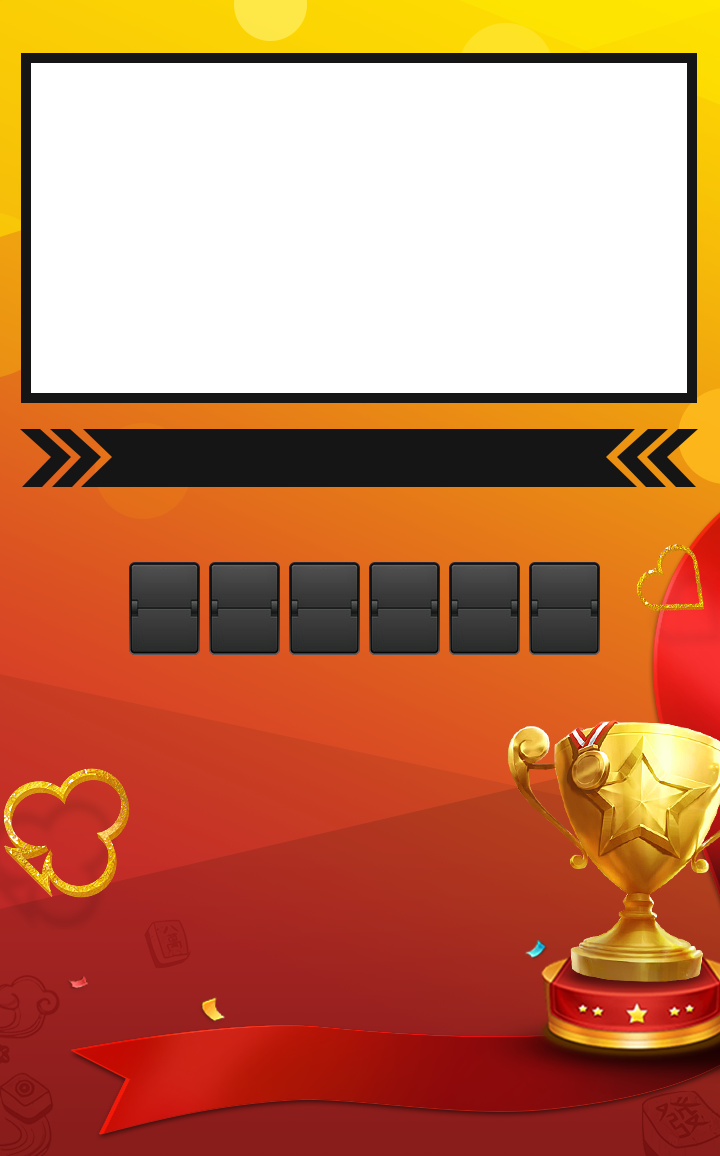
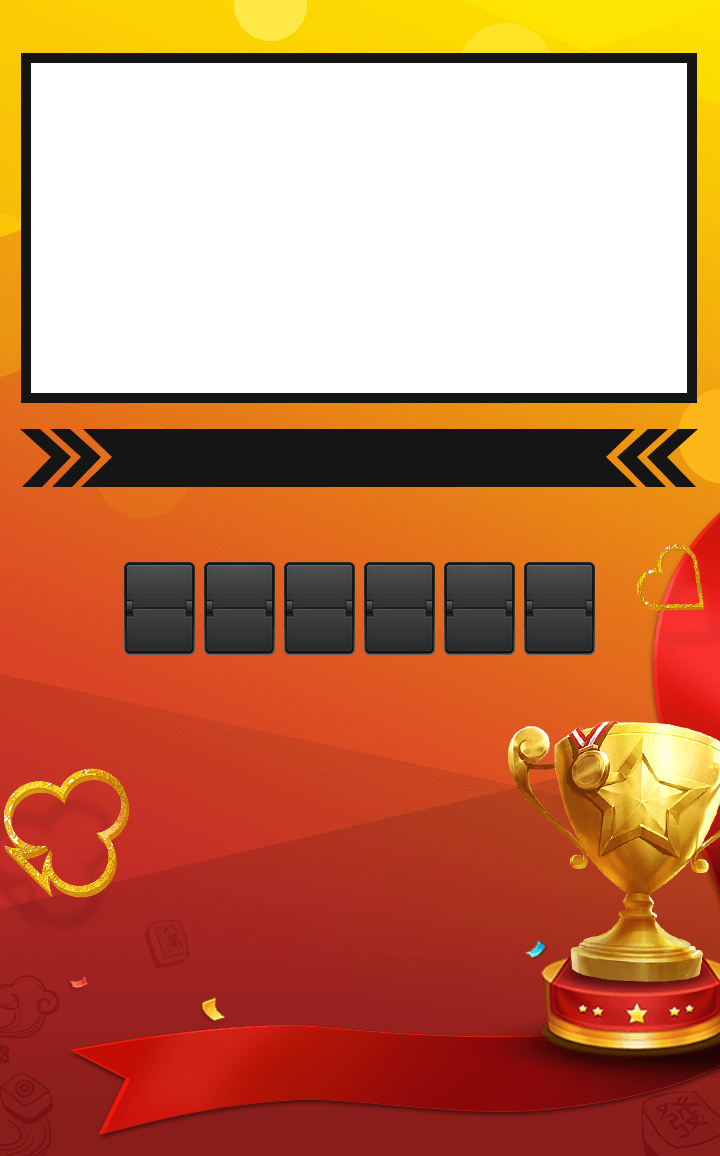
修改bug

diff --git a/src/views/match/MatchStyle.vue b/src/views/match/MatchStyle.vue
@@ -20,7 +20,7 @@
         </van-collapse-item>
       </van-collapse>
       <van-cell title="请填写奖品信息" :value="prizeMsg" is-link @click="toPrize" />
-      <van-cell title="添加分享图" :value="prizeMsg" is-link @click="toPrize" />
+      <van-cell title="添加分享图" :value="prizeMsg" is-link @click="toShare" />
     </van-cell-group>
     <van-popup v-model="gameShow" position="bottom">
       <van-picker :columns="gameList" show-toolbar @confirm="gameConfirm" @cancel="gameShow = false" />
@@ -61,8 +61,12 @@ export default {
       activeNames: ["1"],
       attendStyle: [
         {
+          id: 0,
+          value: "免费报名"
+        },
+        {
           id: 1,
-          value: "免费赛"
+          value: "分享报名"
         },
         {
           id: 2,
@@ -95,6 +99,9 @@ export default {
     this.fetchGameList();
   },
   methods: {
+    toShare() {
+      this.$router.push("shareImg");
+    },
     gameSelect() {
       this.gameShow = true;
     },

diff --git a/src/views/match/Share.vue b/src/views/match/Share.vue
@@ -82,8 +82,10 @@ export default {
   text-align: center;
 }
 .match_code span {
-  margin: 0 2.2%;
-  margin-right: 2.25%;
+  display: inline-block;
+  width: 9.73%;
+  height: 13.33%;
+  margin-right: 1.25%;
 }
 .match_code_desc {
   position: absolute;
@@ -95,7 +97,7 @@ export default {
 }
 .qr_code {
   position: absolute;
-  bottom:1.65rem;
+  bottom: 1.65rem;
   width: 2rem;
   height: 2rem;
   left: 50%;
@@ -103,20 +105,19 @@ export default {
 }
 .qr_code_desc {
   position: absolute;
-  bottom: .7rem;
+  bottom: 0.7rem;
   font-size: 0.3rem;
-  color: rgb(255,242,157);
+  color: rgb(255, 242, 157);
   width: 100%;
   text-align: center;
-  margin-left: .1rem;
+  margin-left: 0.1rem;
   font-weight: 600;
-  text-shadow: #000 1px 0 0, #000 0 1px 0,
-    #000 -1px 0 0, #000 0 -1px 0;
+  text-shadow: #000 1px 0 0, #000 0 1px 0, #000 -1px 0 0, #000 0 -1px 0;
 }
 </style>
 
 <style>
-.share .qr_code img{
-   border-radius: .15rem;
+.share .qr_code img {
+  border-radius: 0.15rem;
 }
 </style>

diff --git a/src/views/match/ShareImg.vue b/src/views/match/ShareImg.vue
@@ -1,3 +1,36 @@
 <template>
-
+    <div id="share-img">
+        <van-uploader class="append_img" :after-read="append">
+        </van-uploader>
+    </div>
 </template>
+
+<script>
+export default {
+  mounted() {
+    this.$nextTick(() => {
+      let contain = document.querySelector("#share-img");
+      let input = contain.querySelector(".van-uploader__input");
+      console.log(input);
+      input.click();
+    });
+  },
+  methods: {
+    append() {}
+  }
+};
+</script>
+
+
+<style scoped>
+#share-img {
+  overflow: hidden;
+  position: relative;
+}
+.append_img {
+  opacity: 0;
+  position: absolute;
+  top: 1000px;
+  left: 1000px;
+}
+</style>

diff --git a/src/router/match.js b/src/router/match.js
@@ -6,6 +6,7 @@ import MathchEdit from "../views/match/MathchEdit.vue";
 import Prize from "../views/match/Prize.vue";
 import PrizeAddress from "../views/match/PrizeAddress.vue";
 import Share from "../views/match/Share.vue";
+import ShareImg from "../views/match/ShareImg.vue";
 
 const MATCH_ROUTERS = [
   {
@@ -62,6 +63,13 @@ const MATCH_ROUTERS = [
     component: Share,
     meta: {
       title: "分享邀请码"
+    }
+  },
+  {
+    path: "/match/shareImg",
+    component: ShareImg,
+    meta: {
+      title: "添加分享图片"
     }
   }
 ];

diff --git a/src/views/match/Index.vue b/src/views/match/Index.vue
@@ -189,7 +189,7 @@ export default {
         return this.$toast("请先实名认证");
       }
       if (this.userInfo.latitude == 0) {
-        return this.$toast("请先设置店铺地址");
+        return this.$toast("需要进行店铺地址定位");
       }
       this.$router.push("match/create");
     },
